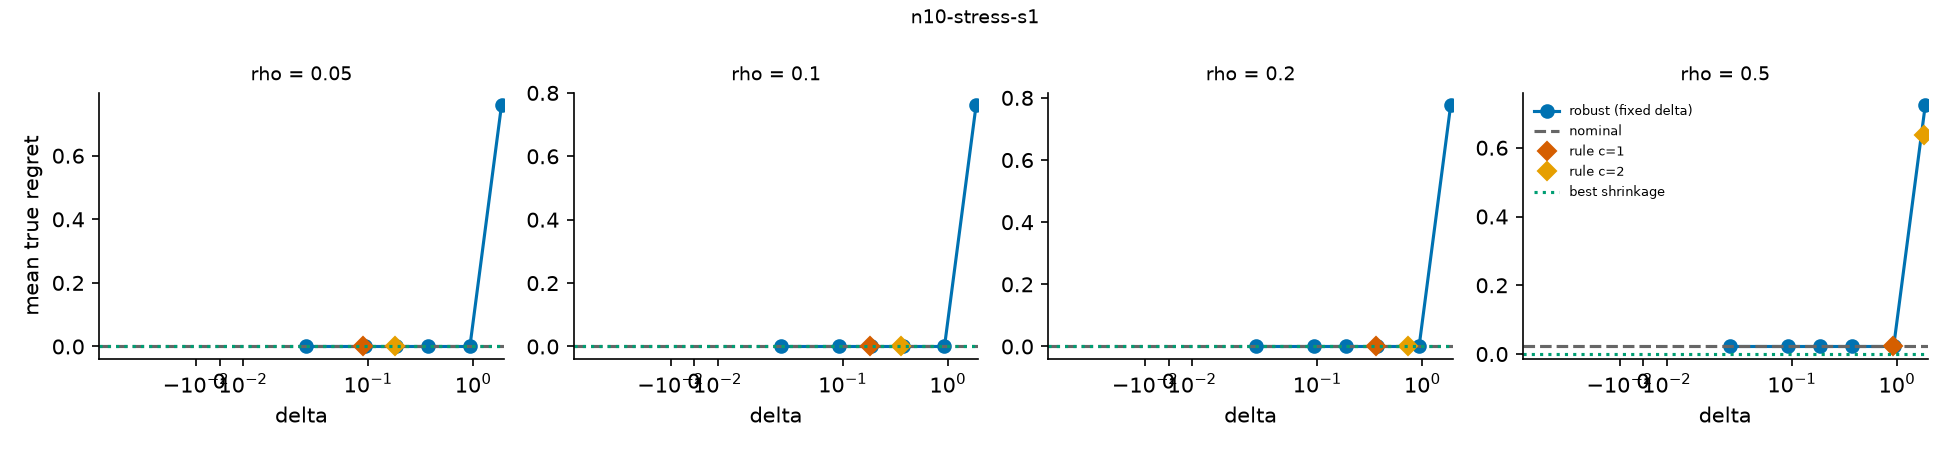
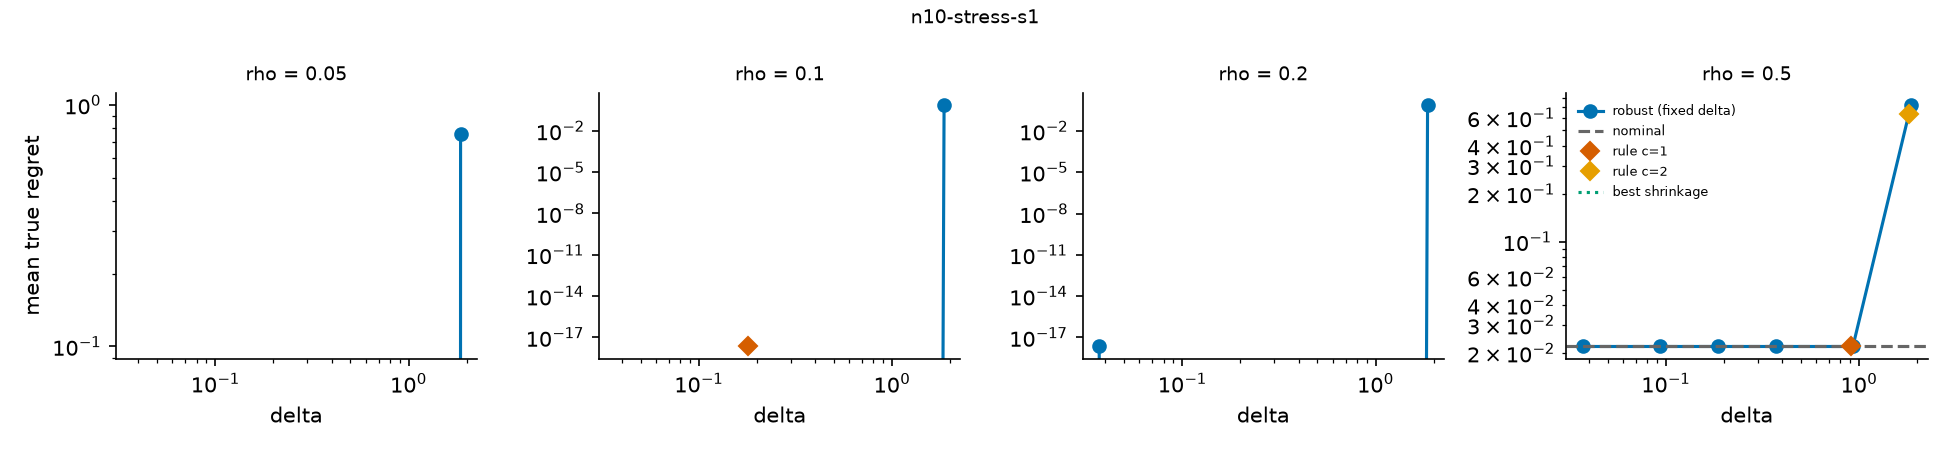
use log axes in experiment b figures

diff --git a/experiments/summarize_exp_b.py b/experiments/summarize_exp_b.py
@@ -77,7 +77,7 @@ def main():
                 ax.plot(h["delta"].mean(), h["regret"].mean(), "D", color=col, label=f"rule c={c}")
             sh = g[g.method.str.startswith("shrink")].groupby("method")["regret"].mean()
             ax.axhline(sh.min(), color="#009E73", ls=":", label="best shrinkage")
-            ax.set_title(f"rho = {rho}", fontsize=9); ax.set_xlabel("delta"); ax.set_xscale("symlog", linthresh=0.05)
+            ax.set_title(f"rho = {rho}", fontsize=9); ax.set_xlabel("delta"); ax.set_xscale("log"); ax.set_yscale("log", nonpositive="clip")
             ax.spines[["top", "right"]].set_visible(False)
         axes[0].set_ylabel("mean true regret"); axes[-1].legend(fontsize=6, frameon=False)
         fig.suptitle(market, fontsize=9); fig.tight_layout()
